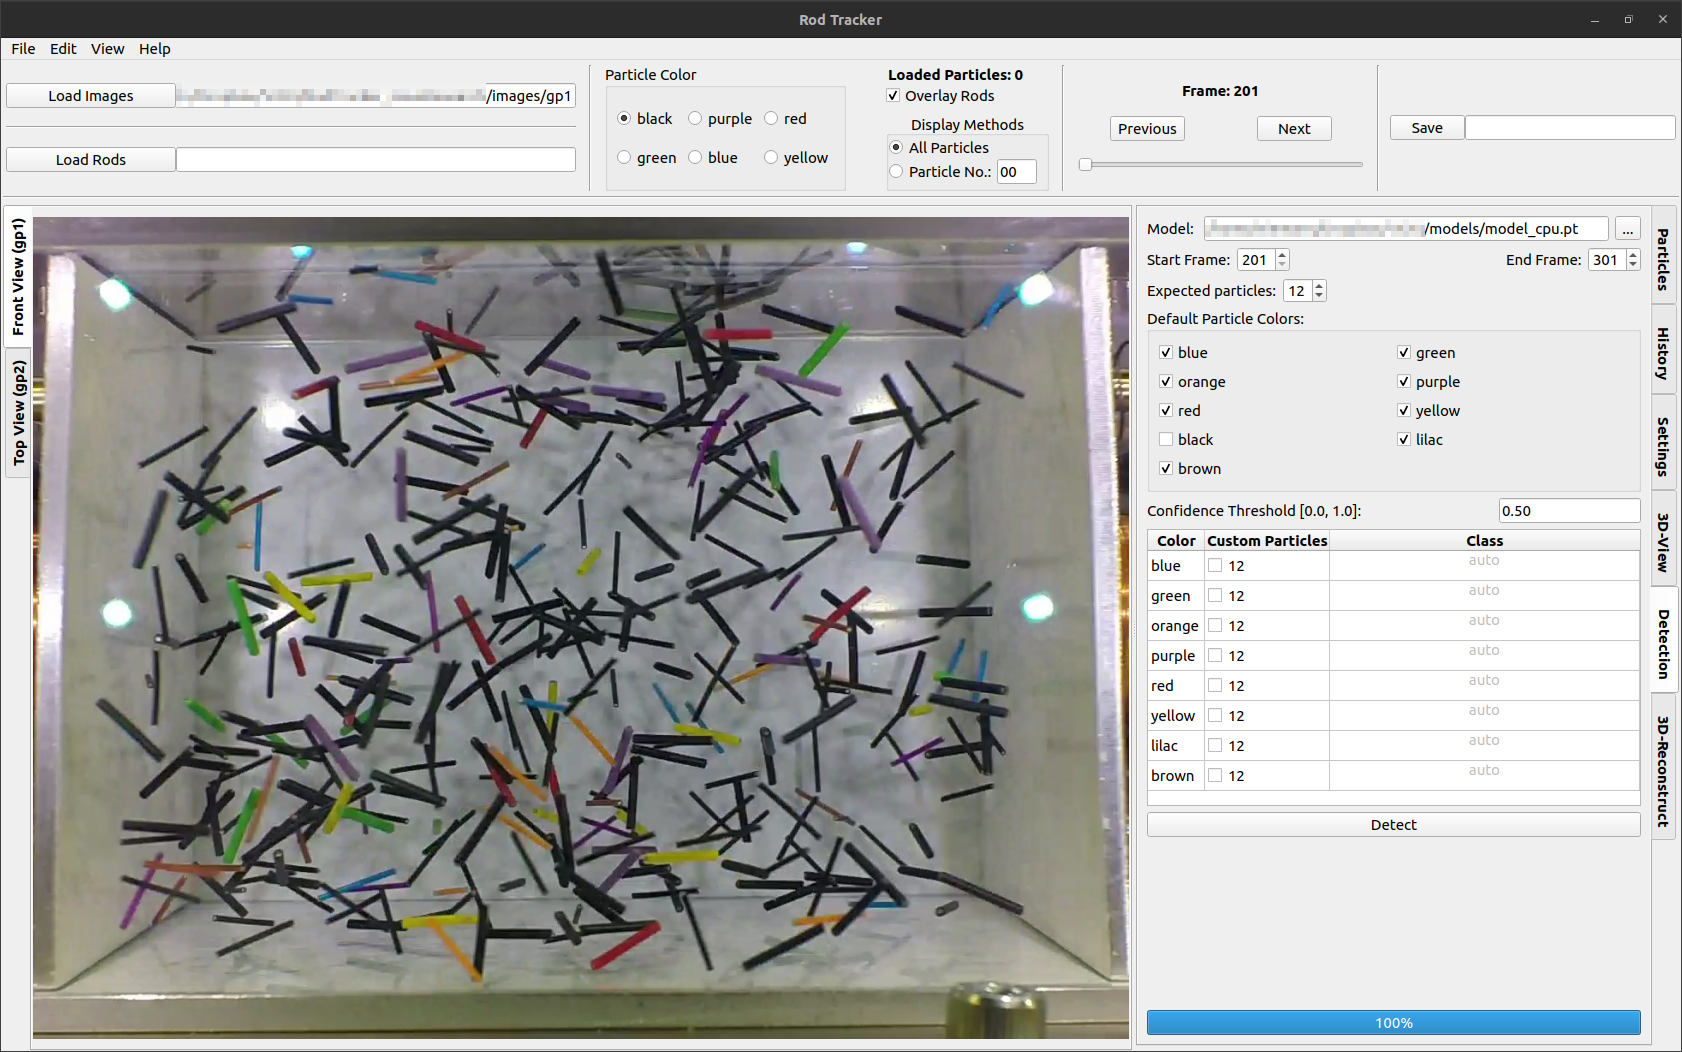
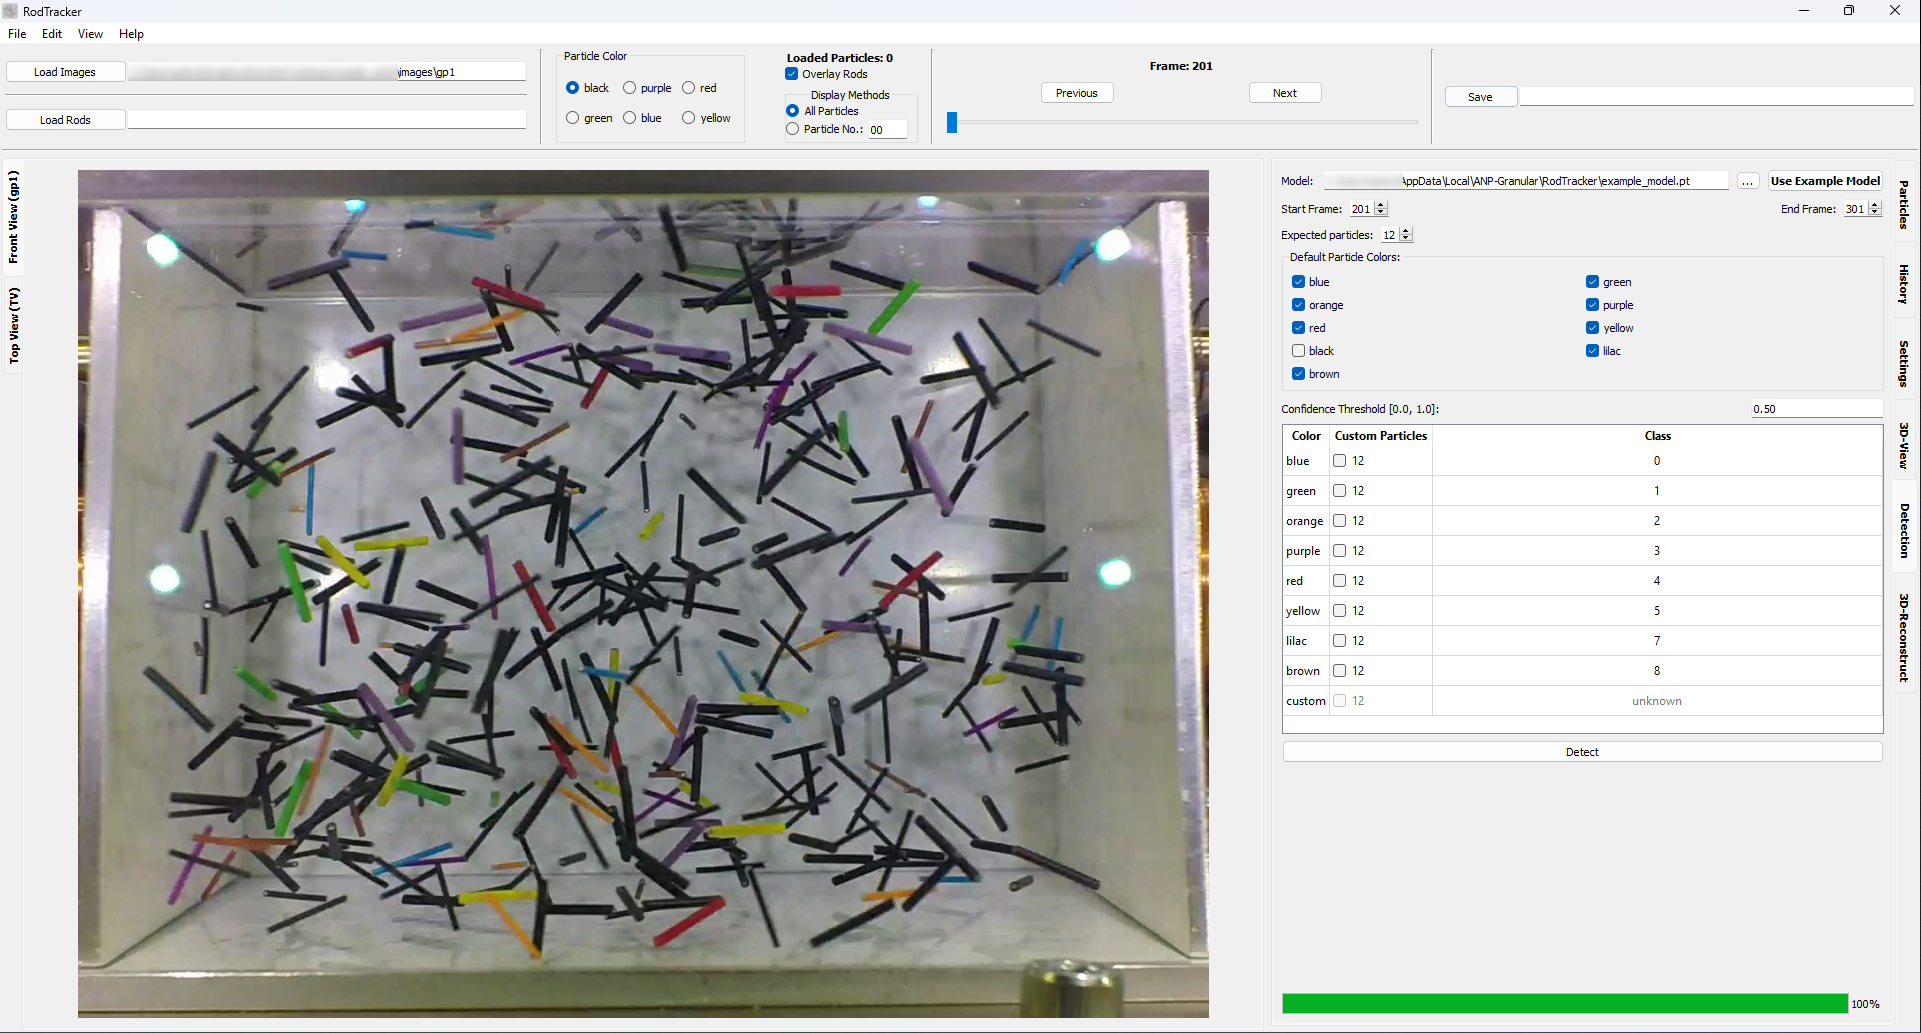
Update RodTracker docs
Adds information to the installation process on Linux.
Adds missing API documentation.
Adds a link to the source code (fixes #81).
Adds information on how to use the example detection model (fixes #85, #75).

diff --git a/docs/source/installation/rodtracker.md b/docs/source/installation/rodtracker.md
@@ -3,7 +3,7 @@ As the RodTracker is a Python package usually you will be installing it from sou
 
 The following installation instructions are only concerning installing the RodTracker as a python package.
 
-### Installation from PyPI
+## Installation from PyPI
 **Requirements:**
 - Python `>=3.8`
 - pip
@@ -17,7 +17,7 @@ Or use one of the options described in the [documentation](https://particletrack
 pip install RodTracker[OPTION]
 ```
 
-### Installation from source
+## Installation from source
 
 **Requirements:**
 - Python `>=3.8` is installed
@@ -99,3 +99,12 @@ Please install CUDA first, then install the RodTracker, and lastly refer to [Par
 ```{note}
 CUDA is currently not available on macOS and therefore also not supported here.
 ```
+
+## Post-Installation problems on Linux
+When installed on Linux there is a possibility that system libraries are missing and errors like the one shown below occur and the RodTracker crashes.
+```text
+ImportError: libGL.so.1: cannot open shared object file: No such file or directory
+```
+
+When this happens, for example when running Ubuntu in the Windows Subsystem for Linux it is necessary to install missing libraries manually.
+For this refer to the [pytest-qt documentation](https://pytest-qt.readthedocs.io/en/latest/troubleshooting.html#github-actions-azure-pipelines-travis-ci-and-gitlab-ci-cd) or the [setup-qt-libs](https://github.com/tlambert03/setup-qt-libs) GitHub action.

diff --git a/docs/source/RodTracker/RodTracker.md b/docs/source/RodTracker/RodTracker.md
@@ -55,8 +55,9 @@ The folder name is then used as an ID for the loaded images and respective parti
 
 ## Automated detection of particles
 
-Now the particles in the loaded images can be detected using a saved model. With this app comes a trained RCNN for detecting rods from the example dataset.
+Now the particles in the loaded images can be detected using a saved model.
 1. Load the model in the `Detection` tab and select a frame range that the model shall identify rods on.
+   - The `Use Example Model` button downloads [this model](https://zenodo.org/records/10255525) used for rod detection (specifically the *model_cpu.pt* file). It is intended for detecting rods in the example images.
 2. Deselect any color class that you are not interested in.
 3. Select the *default* expected number of particles, i.e. how many particles per color are expected in each image.
 4. Adjust the number of particles per color, if needed, in the table and check the box to use the customized value during detection.

diff --git a/docs/source/index.md b/docs/source/index.md
@@ -26,9 +26,18 @@ The RodTracker package is a GUI encapsulating the most used functionality of the
 installation/installation
 RodTracker/RodTracker
 ParticleDetection/ParticleDetection
-developer_notes
 api-reference
 changelog/changelog
+```
+
+```{toctree}
+:caption: Getting Involved
+:maxdepth: 1
+:hidden:
+
+Source Code <https://github.com/ANP-Granular/ParticleTracking>
+Contributing <contributing>
+developer_notes
 ```
 
 # Indices and tables

diff --git a/docs/source/RodTracker-api/RodTracker.backend.rst b/docs/source/RodTracker-api/RodTracker.backend.rst
@@ -13,6 +13,7 @@ RodTracker.backend
    backend/file_locations
    backend/img_data
    backend/logger
+   backend/miscellaneous
    backend/parallelism
    backend/reconstruction
    backend/rod_data

diff --git a/docs/source/RodTracker-api/backend/miscellaneous.rst b/docs/source/RodTracker-api/backend/miscellaneous.rst
@@ -1,0 +1,7 @@
+RodTracker.backend.miscellaneous
+--------------------------------
+
+.. automodule:: RodTracker.backend.miscellaneous
+   :members:
+   :undoc-members:
+   :show-inheritance:

diff --git a/docs/source/contributing.md b/docs/source/contributing.md
@@ -1,0 +1,2 @@
+```{include} ../../CONTRIBUTING.md
+```
